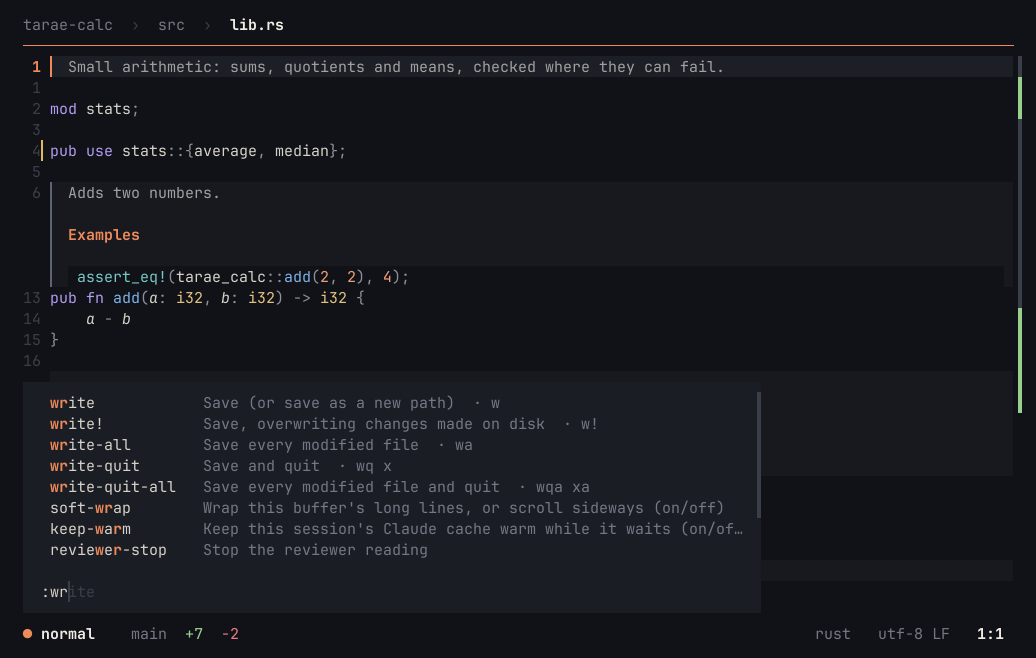
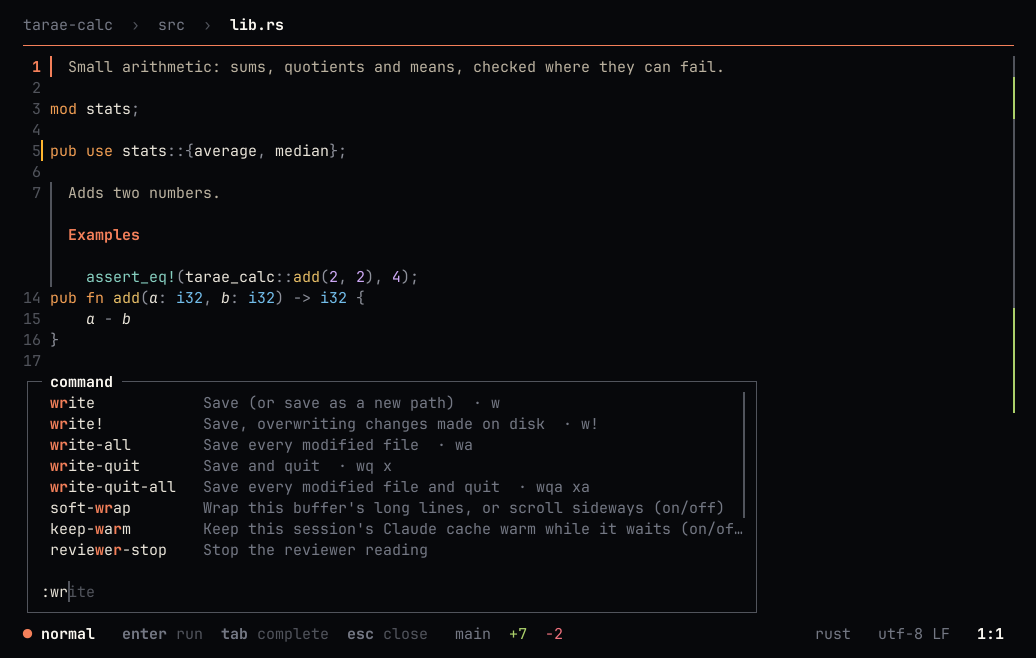
docs' pictures after panes P2c and design pass 2: 28 retaken; a framed card's pointing label on its title row; the follow card's wait named as varying
A framed card's pointing spot. Under `ui.edge = "lines"` a card is laid out framed (D3), its title the frame's top
line (`self.y`), but its spot was recorded at `self.y + self.pad`: the label landed on its second row, over the
body's first characters (chat-point-hanji: `af` over "tarae-demo's" under the trust card's title). The spot is now
where the title is drawn; an unframed card's stays as it was. `a_framed_cards_label_is_on_its_title_row`: the
state's spot is on the title's row at the card's left edge and the label is drawn there; it fails with the old row
(broken once).

The follow card's wait. Its `waiting N.Ns` differs at every take (chat-edit 4.7s -> 5.2s, chat-run 2.8s -> 2.9s) and
no row named it, so both pictures read "differs" each run. `wait_time(row, cols)` names it, as `turn_time` does
(seconds to a tenth, checked at every take): chat-edit row 17, chat-run row 3, cols 103..111.

The pictures: `cargo xtask scenes --docs`, 28 taken (no wait timed out), all 28 differing from the committed ones,
kept with `--keep`. The 48 rows with no scene yet are left as they were. Through nearly all of them:
- design pass 2 D1: ayu's hues on the near-ink ground; comments upright; doc comments on the ground (no wash, the
  example's code unshaded)
- line numbers absolute (uxaudit)
- D2: thin dividers, the one by the surface with the keys in the accent
- D3: what takes the keys in a thin frame named in its top line, a card's answers in its bottom line
[…]

diff --git a/xtask/src/scenes/docshots.rs b/xtask/src/scenes/docshots.rs
@@ -104,6 +104,12 @@ const fn turn_time(row: u16, cols: (u16, u16)) -> Varies {
     Varies { row, cols, what: "a turn's time (`2.0s`)", holds: seconds }
 }
 
+/// How long Claude has waited, as the follow card's head says it after `waiting`, right-aligned in `cols` of `row`:
+/// `4.7s` — the scene's own pace on tarae's clock, never the same twice.
+const fn wait_time(row: u16, cols: (u16, u16)) -> Varies {
+    Varies { row, cols, what: "the follow card's wait (`4.7s`)", holds: seconds }
+}
+
 /// `2.0s`, `12.3s`: seconds to a tenth.
 fn seconds(t: &str) -> bool {
     t.strip_suffix('s').and_then(|n| n.split_once('.')).is_some_and(|(a, b)| {
@@ -508,13 +514,14 @@ const DOCS: &[DocShot] = &[
     row("m4-chat-hanji.png", Some("chatanswer"), S).light().varies(&[turn_time(24, (103, 111))]),
     row("chat-plan.png", None, S),
     // (its head quotes what was asked, as every review of Claude's change does — frictions34 43)
-    row("chat-edit.png", Some("review"), S),
+    // (the follow card's wait on its head row, right-aligned: how long the scene took to get there)
+    row("chat-edit.png", Some("review"), S).varies(&[wait_time(17, (103, 111))]),
     row("chat-edit-why.png", None, S),
     row("chat-turn-review.png", None, (200, 36)),
     row("chat-review-at-end.png", None, S),
     row("chat-undo-turn.png", None, S),
     row("chat-tests.png", None, S),
-    row("chat-run.png", Some("runcard"), S),
+    row("chat-run.png", Some("runcard"), S).varies(&[wait_time(3, (103, 111))]),
     row("notes.png", None, S),
     row("commit-draft.png", None, S),
     row("review.png", Some("codereview"), S),

diff --git a/src/uistate/claude/tests.rs b/src/uistate/claude/tests.rs
@@ -371,6 +371,28 @@ fn pointing_puts_an_elements_id_in_the_chat() {
     assert!(ed.pointing.is_none() && ed.session.is_at(crate::session::At::Chat));
 }
 
+/// A framed card's label sits on its title's row — the frame's top line (`ui.edge = "lines"`), where its name
+/// is — at its left edge: the spot the state gives and the frame drawn agree.
+#[test]
+fn a_framed_cards_label_is_on_its_title_row() {
+    let mut ed = editor();
+    let id = card(&mut ed, "End the review?");
+    chat(&mut ed, "");
+    let before = frame(&mut ed);
+    let title = before.lines().position(|l| l.contains("End the review?")).expect(&before);
+    ed.handle_key(key("<C-o>"));
+    let p = ed.pointing.clone().expect("labels up");
+    let t = p.targets.iter().find(|t| t.id == format!("card#{id}")).expect("the card has a label");
+    assert_eq!(t.at.1, title, "on the title's row:\n{before}");
+    let row = before.lines().nth(title).unwrap();
+    let x = row[..row.find("End the review?").unwrap()].chars().count();
+    assert!(t.at.0 < x && x - t.at.0 <= 3, "at the card's left edge, before its name:\n{before}");
+    let text = frame(&mut ed);
+    let (a, b) = crate::labels::Labels::label(p.targets.iter().position(|u| u.id == t.id).unwrap());
+    let row = text.lines().nth(title).unwrap_or_default();
+    assert!(row.contains(&format!("{a}{b}")) && row.contains("End the review?"), "{text}");
+}
+
 /// A click while labels are up picks the element under it — here a side panel's row, by its content.
 #[test]
 fn pointing_by_a_click() {

diff --git a/src/term.rs b/src/term.rs
@@ -8842,7 +8842,8 @@ impl OfferCard {
             |scope: &str| Style { fg: editor.theme.try_get(scope).and_then(|s| s.fg).or(body.fg), ..body };
         let (plus, minus) = (sign("diff.plus"), sign("diff.minus"));
         let mut row = self.y + self.pad;
-        spot(self.id, self.x, row, width);
+        // (its label on its title's row: framed, the frame's top line)
+        spot(self.id, self.x, if self.boxed { self.y } else { row }, width);
         for (i, (text, faint)) in self.lines.iter().enumerate() {
             // (framed, its title is the frame's name)
             if self.boxed && i == 0 {
